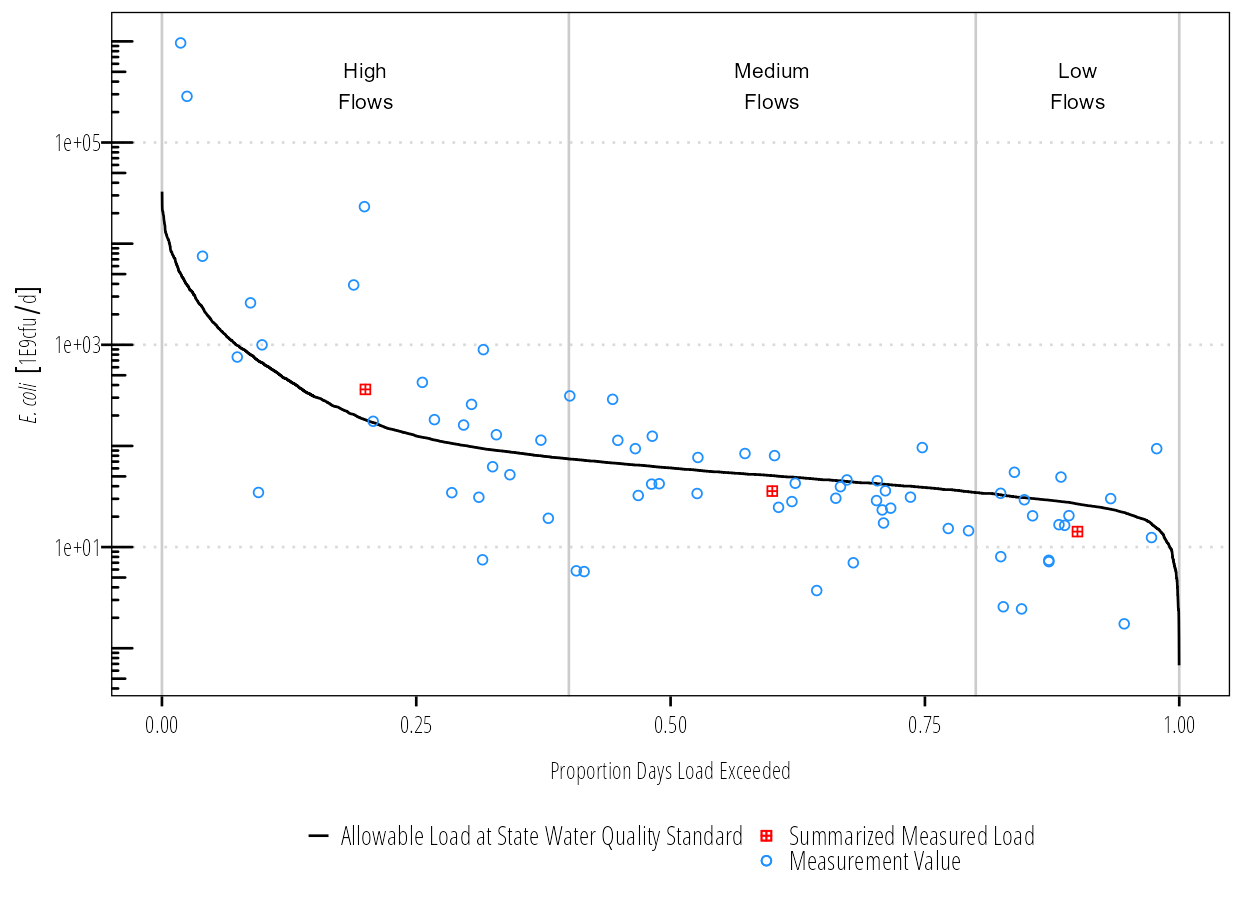
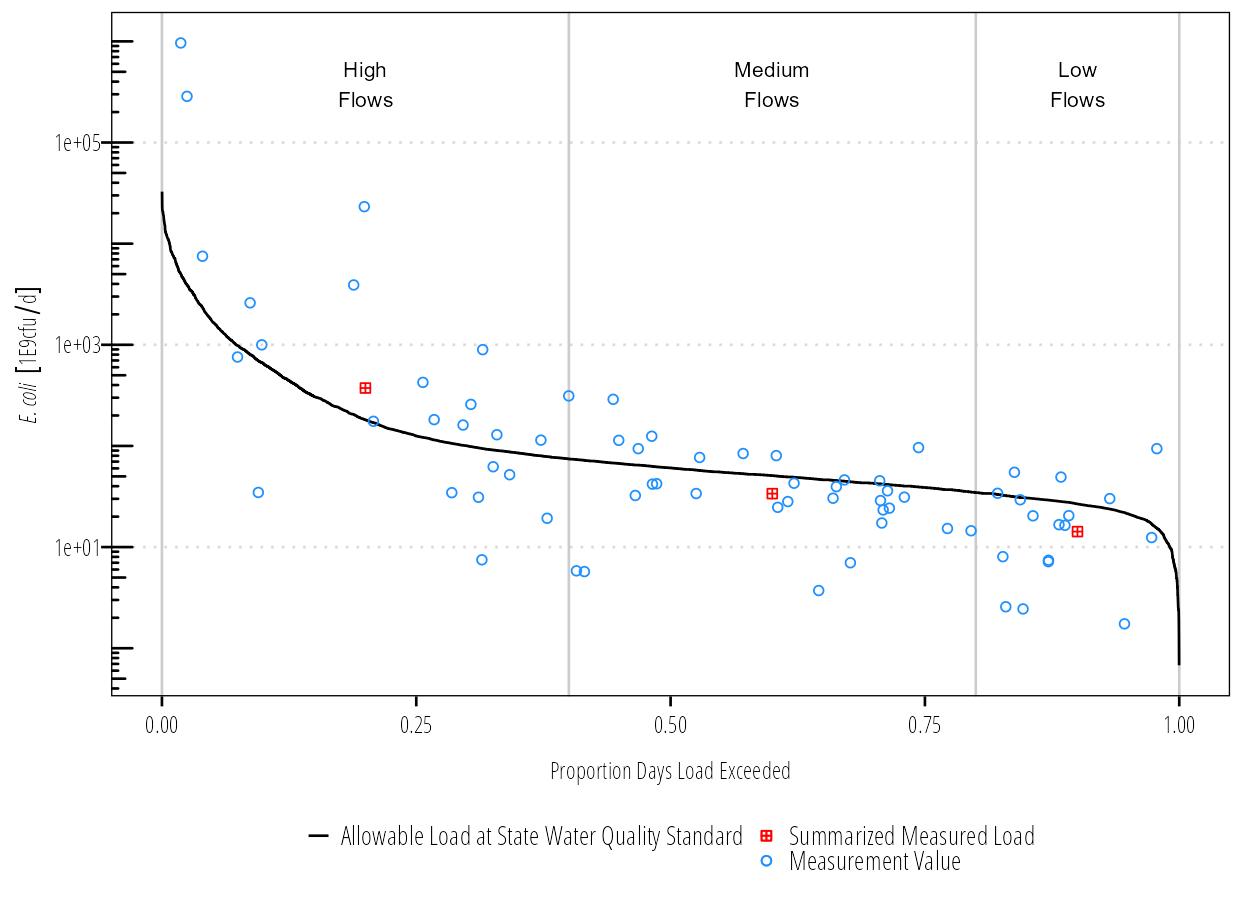
add code coverage framework

diff --git a/README.md b/README.md
@@ -11,6 +11,8 @@ public.](https://www.repostatus.org/badges/latest/wip.svg)](https://www.repostat
 [![R-CMD-check](https://github.com/TxWRI/ldc/actions/workflows/check-standard.yaml/badge.svg)](https://github.com/TxWRI/ldc/actions/workflows/check-standard.yaml)
 [![license](https://img.shields.io/badge/license-MIT%20+%20file%20LICENSE-lightgrey.svg)](https://choosealicense.com/)
 
+[![Codecov test
+coverage](https://codecov.io/gh/TxWRI/ldc/branch/main/graph/badge.svg)](https://app.codecov.io/gh/TxWRI/ldc?branch=main)
 <!-- badges: end -->
 
 ldc provides automated and fairly opinionated functions for generating
@@ -105,16 +107,16 @@ df_ldc
 #> # A tibble: 7,671 x 9
 #>    site_no  Date           Flow Indicator_Bacteria Daily_Flow_Volume Daily_Load
 #>    <chr>    <date>     [ft^3/s]        [cfu/100mL]         [100mL/d]    [cfu/d]
-#>  1 08162600 2000-01-01     0.84                 NA         20551235.         NA
-#>  2 08162600 2000-01-02     3                    NA         73397266.         NA
-#>  3 08162600 2000-01-03     3.4                  NA         83183569.         NA
-#>  4 08162600 2000-01-04     2.6                  NA         63610964.         NA
-#>  5 08162600 2000-01-05     1.6                  NA         39145209.         NA
-#>  6 08162600 2000-01-06     3.2                  NA         78290417.         NA
-#>  7 08162600 2000-01-07    11                    NA        269123310.         NA
-#>  8 08162600 2000-01-08    17                    NA        415917843.         NA
-#>  9 08162600 2000-01-09    22                    NA        538246620.         NA
-#> 10 08162600 2000-01-10    18                    NA        440383598.         NA
+#>  1 08162600 2000-08-18     0.22                 NA          5382466.         NA
+#>  2 08162600 2000-03-07     0.42                 NA         10275617.         NA
+#>  3 08162600 2000-03-06     0.6                  NA         14679453.         NA
+#>  4 08162600 2000-08-22     0.75                 NA         18349317.         NA
+#>  5 08162600 2000-03-08     0.78                 NA         19083289.         NA
+#>  6 08162600 2000-08-17     0.78                 NA         19083289.         NA
+#>  7 08162600 2000-09-11     0.8                  NA         19572604.         NA
+#>  8 08162600 2000-01-01     0.84                 NA         20551235.         NA
+#>  9 08162600 2000-08-21     0.93                 NA         22753153.         NA
+#> 10 08162600 2000-03-05     1                    NA         24465755.         NA
 #> # ... with 7,661 more rows, and 3 more variables: Allowable_Daily_Load [cfu/d],
 #> #   P_Exceedance <dbl>, Flow_Category <fct>
 ```
@@ -130,11 +132,11 @@ df_sum <- summ_ldc(df_ldc,
                    method = "geomean")
 df_sum
 #> # A tibble: 3 x 6
-#>   Flow_Category Median_Flow Median_P   Geomean_C Median_Daily_Fl~ Median_Flow_Load
+#>   Flow_Category Median_Flow Median_P Geomean_C Median_Daily_Fl~ Median_Flow_Load
 #>   <fct>            [ft^3/s]    <dbl> [cfu/100mL]        [100mL/d]          [cfu/d]
-#> 1 High Flows          58.9     0.200       251.       1441032996.    362264512836.
-#> 2 Medium Flows        16.5     0.600        88.6       403684965.     35770057483.
-#> 3 Low Flows            8.66    0.900        67.1       211995771.     14229395256.
+#> 1 High Flows          58.9     0.200     259.       1441032996.    373699594298.
+#> 2 Medium Flows        16.5     0.600      83.6       403684965.     33764600228.
+#> 3 Low Flows            8.66    0.900      67.1       211995771.     14229395256.
 ```
 
 **Plot LDC**
@@ -166,11 +168,11 @@ df_sum %>%
   mutate(Median_Daily_Flow_Volume = set_units(Median_Daily_Flow_Volume, "1E6gallons/day")) -> df_sum
 df_sum
 #> # A tibble: 3 x 6
-#>   Flow_Category Median_Flow Median_P   Geomean_C Median_Daily_Fl~ Median_Flow_Load
+#>   Flow_Category Median_Flow Median_P Geomean_C Median_Daily_Fl~ Median_Flow_Load
 #>   <fct>            [ft^3/s]    <dbl> [cfu/100mL]   [1E6gallons/d]          [cfu/d]
-#> 1 High Flows          58.9     0.200       251.             38.1     362264512836.
-#> 2 Medium Flows        16.5     0.600        88.6            10.7      35770057483.
-#> 3 Low Flows            8.66    0.900        67.1             5.60     14229395256.
+#> 1 High Flows          58.9     0.200     259.             38.1     373699594298.
+#> 2 Medium Flows        16.5     0.600      83.6            10.7      33764600228.
+#> 3 Low Flows            8.66    0.900      67.1             5.60     14229395256.
 ```
 
 cfu/day is a really big number. We can convert that to billion cfu/day.
@@ -180,11 +182,11 @@ df_sum %>%
   mutate(Median_Flow_Load = set_units(Median_Flow_Load, "1E9cfu/day")) -> df_sum
 df_sum
 #> # A tibble: 3 x 6
-#>   Flow_Category Median_Flow Median_P   Geomean_C Median_Daily_Fl~ Median_Flow_Load
+#>   Flow_Category Median_Flow Median_P Geomean_C Median_Daily_Fl~ Median_Flow_Load
 #>   <fct>            [ft^3/s]    <dbl> [cfu/100mL]   [1E6gallons/d]       [1E9cfu/d]
-#> 1 High Flows          58.9     0.200       251.             38.1             362. 
-#> 2 Medium Flows        16.5     0.600        88.6            10.7              35.8
-#> 3 Low Flows            8.66    0.900        67.1             5.60             14.2
+#> 1 High Flows          58.9     0.200     259.             38.1             374. 
+#> 2 Medium Flows        16.5     0.600      83.6            10.7              33.8
+#> 3 Low Flows            8.66    0.900      67.1             5.60             14.2
 ```
 
 If we want to plot these, we also need to convert the df\_ldc variables
